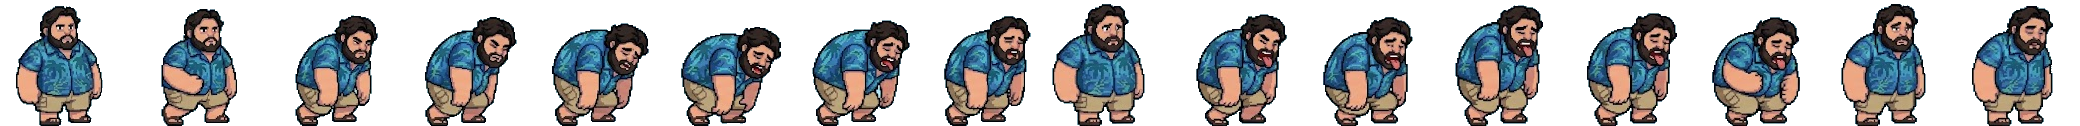
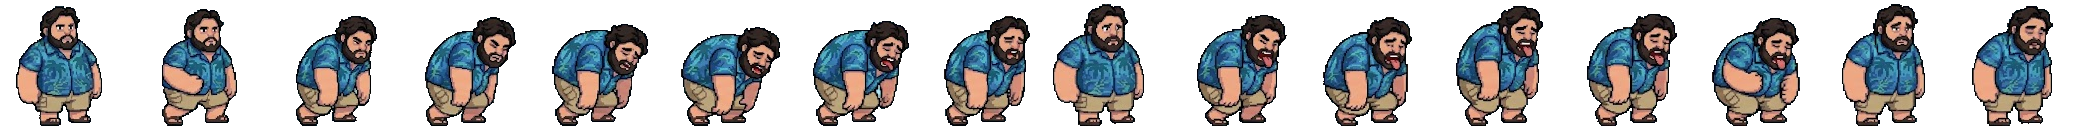
Matteo nuovo nella home, immagine per il link e bordi puliti
Il menu usa il Matteo nuovo. Aggiunti immagine e icona per le anteprime del link,
con i tag in testa alla pagina. Tolti i pixel chiari dal bordo di palla e riposo.

diff --git a/index.html b/index.html
@@ -1,10 +1,26 @@
 <!doctype html>
-<html lang="it"><head><meta charset="utf-8"><meta name="viewport" content="width=device-width,initial-scale=1,viewport-fit=cover,user-scalable=no"><style>body{margin:0}img{max-width:100%}</style></head><body>
+<html lang="it"><head><meta charset="utf-8"><meta name="viewport" content="width=device-width,initial-scale=1,viewport-fit=cover,user-scalable=no"><style>body{margin:0}img{max-width:100%}</style>
 <title>Cicciobomba</title>
+<meta name="description" content="Matteo ha il corpo rotondo e il potere di rotolare: inclina il telefono, mangia la pizza e non esplodere!">
+<meta property="og:type" content="website">
+<meta property="og:site_name" content="Cicciobomba">
+<meta property="og:title" content="Cicciobomba">
+<meta property="og:description" content="Matteo ha il corpo rotondo e il potere di rotolare: inclina il telefono, mangia la pizza e non esplodere!">
+<meta property="og:url" content="https://davideerusso.github.io/cicciobomba/">
+<meta property="og:image" content="https://davideerusso.github.io/cicciobomba/assets/anteprima.jpg?v=1">
+<meta property="og:image:width" content="1200">
+<meta property="og:image:height" content="630">
+<meta name="twitter:card" content="summary_large_image">
+<meta name="twitter:title" content="Cicciobomba">
+<meta name="twitter:description" content="Matteo ha il corpo rotondo e il potere di rotolare: inclina il telefono, mangia la pizza e non esplodere!">
+<meta name="twitter:image" content="https://davideerusso.github.io/cicciobomba/assets/anteprima.jpg?v=1">
+<link rel="icon" href="https://davideerusso.github.io/cicciobomba/assets/icona.png?v=1">
+<link rel="apple-touch-icon" href="https://davideerusso.github.io/cicciobomba/assets/icona.png?v=1">
+</head><body>
 <link rel="preconnect" href="https://fonts.googleapis.com">
 <link rel="preconnect" href="https://fonts.gstatic.com" crossorigin>
 <link rel="stylesheet" href="https://fonts.googleapis.com/css2?family=Bowlby+One&family=Baloo+2:wght@500;700;800&display=swap">
-<link rel="stylesheet" href="style.css?v=45">
+<link rel="stylesheet" href="style.css?v=46">
 
 <div id="schermo">
 <canvas id="d2" aria-label="Gioco Cicciobomba"></canvas>
@@ -85,6 +101,6 @@
 <div id="erroreT" hidden>Il gioco non è riuscito a partire. Controlla la connessione e ricarica la pagina.</div>
 
 </div>
-<script src="game.js?v=45"></script>
+<script src="game.js?v=46"></script>
 
 </body></html>

diff --git a/game.js b/game.js
@@ -679,7 +679,9 @@ function disegnaMenu(dt){
  for(let y=0;y*ts<H-base+ts;y++)for(let i=0;i<cols;i++)sp(c,'terrain_sand_block_'+(y?'center':'top'),i*ts,base+y*ts,ts+.8,ts+.8);
  M0.t+=dt;if(!riduci&&(M0.t>2.4)){M0.t=0;M0.Wv+=5;}
  M0.Wv+=(-120*M0.W-7*M0.Wv)*dt;M0.W+=M0.Wv*dt;
- disegnaCamm(c,W*.25,base+2,r*.9,riduci?0:Math.floor(G.t*5)%10,0,1,M0.W,0);
+ const am=amico(),tm=G.t%8;
+ if(!am._img&&am.colore===COLORI[0]&&am.skin==='classica'){const rn=r*.65;if(!riduci&&tm>5.8)passiSpr(c,W*.25,base+2,rn,10+Math.floor((tm-5.8)*5)%11,1,M0.W,0);else fermoSpr(c,W*.25,base+2,rn,1,M0.W+Math.sin(G.t*1.96)*.02,0);}
+ else disegnaCamm(c,W*.25,base+2,r*.9,riduci?0:Math.floor(G.t*5)%10,0,1,M0.W,0);
 }
 
 /* ---------- BOSS 2D SU PIÙ PIANI: si lancia, sbatte, resta stordito ---------- */

diff --git a/CLAUDE.md b/CLAUDE.md
@@ -6,7 +6,7 @@ Gioco per browser pensato per il telefono in orizzontale, pubblicato con GitHub 
 - `index.html`: solo il markup delle schermate (menu, guida, amici e skin, pausa, fine, HUD).
 - `style.css`: lo stile, con i colori come variabili su `:root`.
 - `game.js`: tutta la logica, in un unico script classico chiuso in una funzione e diviso in sezioni `/* ---------- NOME ---------- */`: orientamento, salvataggio, mondi e tappe, kit grafico e sonoro, skin, palla dipinta, audio, stato, comandi, cuori, corsa 2D, boss 2D, la bomba, guida, flusso, menu, ciclo.
-- `assets/`: `matteo_fermo.webp`, `matteo_cammina.webp`, `matteo_salto.webp`, `matteo_palla.webp` e `matteo_stanco.webp` (il Matteo nuovo dell'utente, con la camicia blu: mappe nei commenti sopra `fogSpr`. In partita li usa solo il Matteo normale, senza colore, skin o foto; gli amici, il menu e la guida usano ancora `personaggio*.webp`. Alto 3,8 raggi (`SPR_K`), piedi abbassati di `SPR_PIEDI`. `matteo_cammina.webp` ha solo i fotogrammi scelti, nell'ordine in cui braccia e gambe si alternano: 0-5 corre, 6-9 cammina, 10-20 si gira per noia. La camminata alterna le gambe: destra avanti (2ª riga, 6°, senza la macchia grigia), passaggio (4ª riga, 4°), sinistra avanti (4ª riga, 6°), passaggio (2ª riga, 2°). Nel foglio la gamba vicina è la destra: è più chiara e ha la tasca; le altre righe hanno quasi sempre la sinistra avanti. L'utente non vuole dissolvenze tra i fotogrammi, perché sembrano sfumati, né un contorno nero aggiunto), `fondi/ananas_nuovo.webp` (fondale attuale del mondo 1, ripetuto a specchio da `strato`. Velato del 32% verso l'azzurro `#aee9fb` e con i colori al 82%: a piena forza competeva con pizze e nemici, a 48% era slavato), `kit.webp` (atlante dei blocchi Kenney, coordinate in `KMAP`), `personaggio.webp`, `personaggio2.webp` e `personaggio3.webp` (fogli delle animazioni di Matteo; il terzo è Matteo stanco, con le stesse celle da 200 del secondo), `fumo.webp`, `polvere.webp`, `esplosione.webp`, `pizza.webp`, `kit2.webp` (altri pezzi del kit), `nemico_ananas.webp` (l'ananas arrabbiato dal foglio "Pineapple Tiles" CC0 dell'utente, nemico del mondo 1; degli altri pezzi di quel foglio l'utente non vuole niente, né per il terreno né per le grotte; il terreno ananas di `paesaggio.webp` è un'altra serie, che invece gli va bene), `paesaggio.webp` (terreno del mondo 1: buccia e polpa d'ananas disegnate dall'utente, caselle da 68 nello stesso ordine di `PIX`, poi la rampa (`sprite-20.png`), la terra sotto la rampa (`paesaggio.png`) e i lati del piano: ai piedi di un muro (`sprite-28.png`), gradino in giù (`sprite-29.png`) e bordo sul vuoto (`sprite-30.png`), poi il muro accanto al bordo sul vuoto (`sprite-32.png`) sotto una colonna (`sprite-33.png`) e il piano ai lati della colonna (`sprite-31.png`); i pezzi singoli stanno in `paesaggio/`), `erbananas.webp` (ciuffo d'ananas dell'utente, al posto del cespuglio nei decori del mondo 1 e nel menu, disegnato da `ciuffo()` in grandezza vera, alla scala delle caselle da 68, perché il bordo scuro sia spesso come quello del pavimento. Largo più di 3 caselle, deve stare tutto sul piano: se sporge sul vuoto rientra un po' a sinistra (`d.dx`), e se non ci sta diventa erba; l'originale è `paesaggio/erbananas.png`), `bomba.webp` (Matteo carico al massimo: 37 fotogrammi da 160 in righe da 10, mappa in `disegnaBomba`), `boss_ananas.webp` (Ananassone: fotogrammi da 192x204 in righe da 8, 32-34 stordito, mappa in `disegnaAnanas` e `disegnaBoss`; gli altri due boss sono ancora disegnati nel codice in `BOSPR`), `fondi/*.webp` (nel mondo 1, con `retro:'cielo'`, dietro c'è solo il cielo: azzurro sfumato e in alto la striscia `cielo_nuvole.webp`, ritagliata dal disegno dell'utente; l'utente ha provato a metterci sopra un dipinto della valle col fiume e non lo vuole: dietro resta solo il cielo; davanti `ananas_ponti.webp`, il disegno dell'utente con gli ananas giganti e i ponti (1024x572, già scontornato da lui), che scorre piano (0,1). L'utente l'ha ridisegnato perché i bordi destro e sinistro si attacchino: `stratoPonti` mette le copie una dopo l'altra, sovrapposte di un pixel, senza sfumature né specchio. `strato()` ripete le immagini specchiate una volta sì e una no, senza le due colonne di bordo e sovrapposte di 3 px: prima tra una copia e l'altra si vedeva una riga chiara. Restano nel codice, non usati, il fondale arancio `ananas_lontano.webp` (`retro:'ananas_lontano'`) e gli oggetti di `oggetti.webp` (`oggetti:true`, `filaOggetti`)), messi in due file ripetute e sovrapposte da `filaOggetti`, con `oggetti:true` nel mondo. La felce grande è attaccata all'albero e resta con lui; le liane e la foglia sola non si usano), `suoni/*.mp3`.
+- `assets/`: `matteo_fermo.webp`, `matteo_cammina.webp`, `matteo_salto.webp`, `matteo_palla.webp` e `matteo_stanco.webp` (il Matteo nuovo dell'utente, con la camicia blu: mappe nei commenti sopra `fogSpr`. In partita e nel menu li usa solo il Matteo normale, senza colore, skin o foto; gli amici, la guida e le anteprime di Amici e skin usano ancora `personaggio*.webp`. `matteo_palla.webp` e `matteo_stanco.webp` vengono da immagini piccole: i pixel chiari del bordo sono stati tolti e il bordo ridipinto di scuro. Alto 3,8 raggi (`SPR_K`), piedi abbassati di `SPR_PIEDI`. `matteo_cammina.webp` ha solo i fotogrammi scelti, nell'ordine in cui braccia e gambe si alternano: 0-5 corre, 6-9 cammina, 10-20 si gira per noia. La camminata alterna le gambe: destra avanti (2ª riga, 6°, senza la macchia grigia), passaggio (4ª riga, 4°), sinistra avanti (4ª riga, 6°), passaggio (2ª riga, 2°). Nel foglio la gamba vicina è la destra: è più chiara e ha la tasca; le altre righe hanno quasi sempre la sinistra avanti. L'utente non vuole dissolvenze tra i fotogrammi, perché sembrano sfumati, né un contorno nero aggiunto), `fondi/ananas_nuovo.webp` (fondale attuale del mondo 1, ripetuto a specchio da `strato`. Velato del 32% verso l'azzurro `#aee9fb` e con i colori al 82%: a piena forza competeva con pizze e nemici, a 48% era slavato), `anteprima.jpg` e `icona.png` (immagine e icona per il link condiviso, con i tag in testa a `index.html` e l'indirizzo intero: se cambi l'immagine alza il suo `?v=`), `kit.webp` (atlante dei blocchi Kenney, coordinate in `KMAP`), `personaggio.webp`, `personaggio2.webp` e `personaggio3.webp` (fogli delle animazioni di Matteo; il terzo è Matteo stanco, con le stesse celle da 200 del secondo), `fumo.webp`, `polvere.webp`, `esplosione.webp`, `pizza.webp`, `kit2.webp` (altri pezzi del kit), `nemico_ananas.webp` (l'ananas arrabbiato dal foglio "Pineapple Tiles" CC0 dell'utente, nemico del mondo 1; degli altri pezzi di quel foglio l'utente non vuole niente, né per il terreno né per le grotte; il terreno ananas di `paesaggio.webp` è un'altra serie, che invece gli va bene), `paesaggio.webp` (terreno del mondo 1: buccia e polpa d'ananas disegnate dall'utente, caselle da 68 nello stesso ordine di `PIX`, poi la rampa (`sprite-20.png`), la terra sotto la rampa (`paesaggio.png`) e i lati del piano: ai piedi di un muro (`sprite-28.png`), gradino in giù (`sprite-29.png`) e bordo sul vuoto (`sprite-30.png`), poi il muro accanto al bordo sul vuoto (`sprite-32.png`) sotto una colonna (`sprite-33.png`) e il piano ai lati della colonna (`sprite-31.png`); i pezzi singoli stanno in `paesaggio/`), `erbananas.webp` (ciuffo d'ananas dell'utente, al posto del cespuglio nei decori del mondo 1 e nel menu, disegnato da `ciuffo()` in grandezza vera, alla scala delle caselle da 68, perché il bordo scuro sia spesso come quello del pavimento. Largo più di 3 caselle, deve stare tutto sul piano: se sporge sul vuoto rientra un po' a sinistra (`d.dx`), e se non ci sta diventa erba; l'originale è `paesaggio/erbananas.png`), `bomba.webp` (Matteo carico al massimo: 37 fotogrammi da 160 in righe da 10, mappa in `disegnaBomba`), `boss_ananas.webp` (Ananassone: fotogrammi da 192x204 in righe da 8, 32-34 stordito, mappa in `disegnaAnanas` e `disegnaBoss`; gli altri due boss sono ancora disegnati nel codice in `BOSPR`), `fondi/*.webp` (nel mondo 1, con `retro:'cielo'`, dietro c'è solo il cielo: azzurro sfumato e in alto la striscia `cielo_nuvole.webp`, ritagliata dal disegno dell'utente; l'utente ha provato a metterci sopra un dipinto della valle col fiume e non lo vuole: dietro resta solo il cielo; davanti `ananas_ponti.webp`, il disegno dell'utente con gli ananas giganti e i ponti (1024x572, già scontornato da lui), che scorre piano (0,1). L'utente l'ha ridisegnato perché i bordi destro e sinistro si attacchino: `stratoPonti` mette le copie una dopo l'altra, sovrapposte di un pixel, senza sfumature né specchio. `strato()` ripete le immagini specchiate una volta sì e una no, senza le due colonne di bordo e sovrapposte di 3 px: prima tra una copia e l'altra si vedeva una riga chiara. Restano nel codice, non usati, il fondale arancio `ananas_lontano.webp` (`retro:'ananas_lontano'`) e gli oggetti di `oggetti.webp` (`oggetti:true`, `filaOggetti`)), messi in due file ripetute e sovrapposte da `filaOggetti`, con `oggetti:true` nel mondo. La felce grande è attaccata all'albero e resta con lui; le liane e la foglia sola non si usano), `suoni/*.mp3`.
 - `tools/build.py`: ricompone tutto in `dist/cicciobomba.html`, un file unico con le risorse dentro, che si apre con un doppio clic. `dist/` è generata ed esclusa da git: non modificarla a mano.
 
 ## Regole
